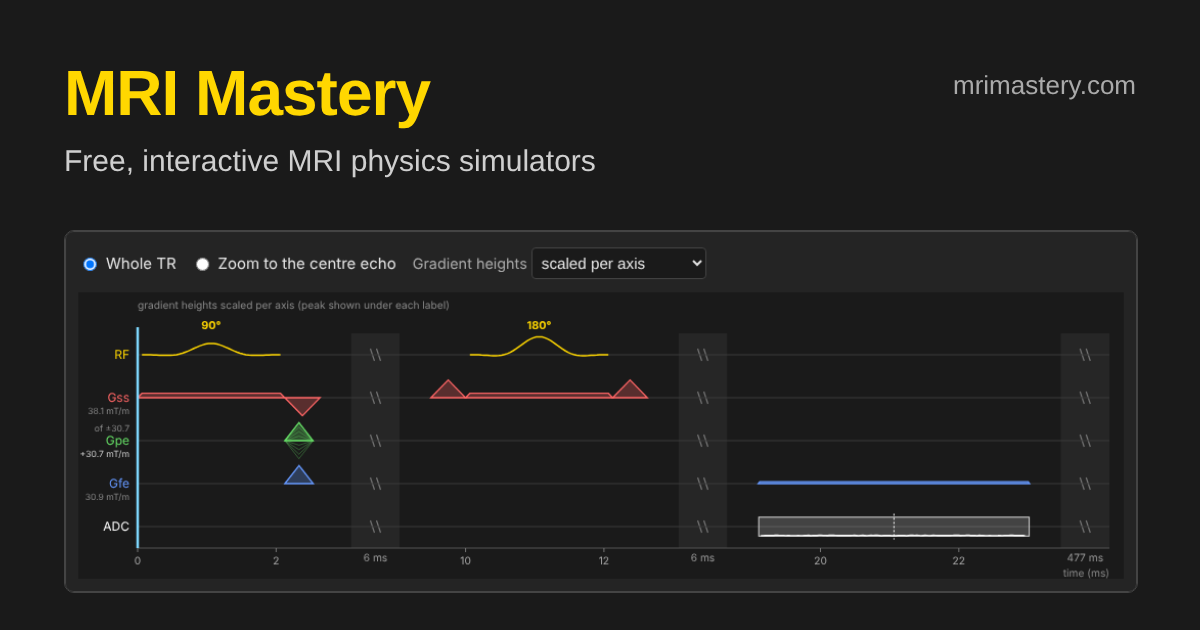
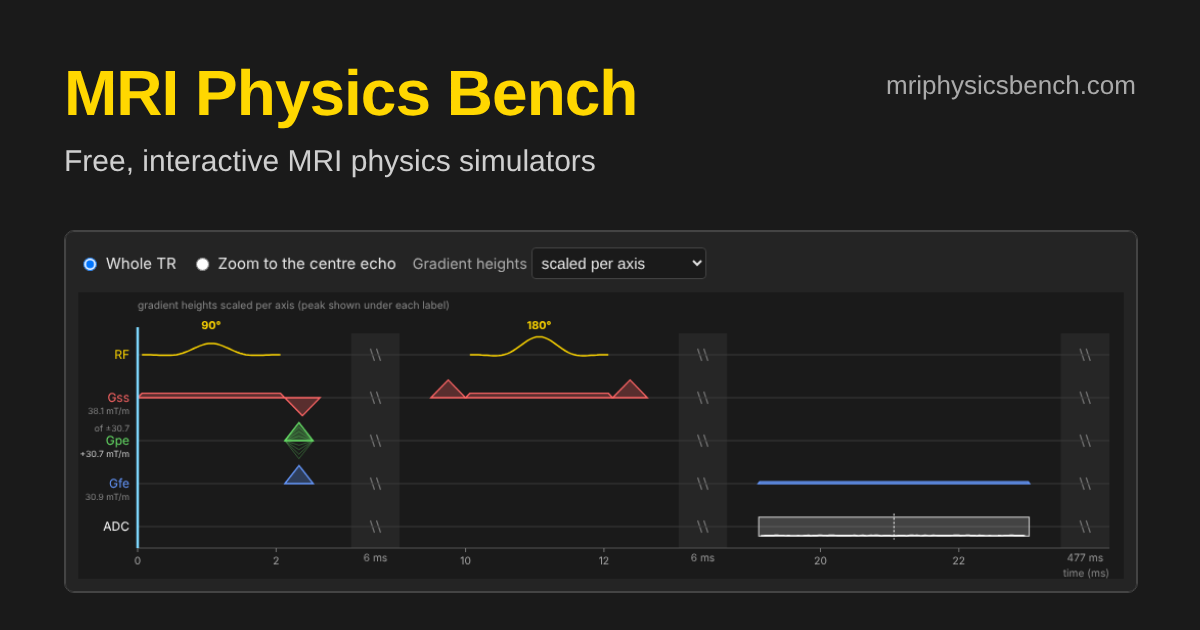
Rename MRI Mastery to MRI Physics Bench (mriphysicsbench.com)
Name, page titles, social tags, footer, social image, sitemap, robots and CNAME.
The old domain mrimastery.com will redirect here (set up in Cloudflare).

Claude-Session: https://claude.ai/code/session_01D25GT53PRjBohcvMYJHPzZ

Changed region(s): [[0.1542, 0.0905, 0.555, 0.2111], [0.74, 0.1206, 0.925, 0.1508]]

diff --git a/guide/index.html b/guide/index.html
@@ -3,16 +3,16 @@
 <head>
 <meta charset="utf-8">
 <meta name="viewport" content="width=device-width, initial-scale=1">
-<title>Quick Guide to the MRI Mastery Simulators | MRI Mastery</title>
-<meta name="description" content="How to use the free MRI Mastery physics simulators: what each one shows, what to try first, and tips for MRI students, technologists and residents.">
-<link rel="canonical" href="https://mrimastery.com/guide/">
+<title>Quick Guide to the MRI Physics Bench Simulators | MRI Physics Bench</title>
+<meta name="description" content="How to use the free MRI Physics Bench simulators: what each one shows, what to try first, and tips for MRI students, technologists and residents.">
+<link rel="canonical" href="https://mriphysicsbench.com/guide/">
 <meta name="author" content="David Bennett, PhD">
 <meta property="og:type" content="website">
-<meta property="og:site_name" content="MRI Mastery">
-<meta property="og:title" content="Quick Guide to the MRI Mastery Simulators | MRI Mastery">
-<meta property="og:description" content="How to use the free MRI Mastery physics simulators: what each one shows, what to try first, and tips for MRI students, technologists and residents.">
-<meta property="og:url" content="https://mrimastery.com/guide/">
-<meta property="og:image" content="https://mrimastery.com/shared/og-image.png">
+<meta property="og:site_name" content="MRI Physics Bench">
+<meta property="og:title" content="Quick Guide to the MRI Physics Bench Simulators | MRI Physics Bench">
+<meta property="og:description" content="How to use the free MRI Physics Bench simulators: what each one shows, what to try first, and tips for MRI students, technologists and residents.">
+<meta property="og:url" content="https://mriphysicsbench.com/guide/">
+<meta property="og:image" content="https://mriphysicsbench.com/shared/og-image.png">
 <meta name="twitter:card" content="summary_large_image">
 <style>
   :root { color-scheme: light; }
@@ -38,7 +38,7 @@
 </head>
 <body>
 <main>
-  <h1>MRI Mastery Simulators: quick guide</h1>
+  <h1>MRI Physics Bench: quick guide</h1>
   <p class="sub">Free, interactive MRI physics that runs in your browser. Nothing to install, no sign-in. Works on a laptop or desktop; a large screen helps.</p>
 
   <div class="note"><strong>Please read:</strong> this is an early release for learning and feedback. It has not been fully quality-checked. Some pages are marked "preview" or "in progress", and results may contain errors. It is a teaching model with simplified physics and a computer-generated head, not a clinical tool. Do not use it for scanner, protocol or safety decisions. Corrections are very welcome.</div>
@@ -96,7 +96,7 @@
   <h2>Feedback</h2>
   <p>Found an error, or something confusing? Please tell me in the group thread: what page, what settings, and what you expected. Thank you for testing.</p>
 </main>
-<footer class="site-foot">MRI Mastery is free and built by <a href="https://davidbennettphd.com" rel="author">David Bennett, PhD</a>, MRI physicist and physics educator. Visits are counted anonymously with Cloudflare Web Analytics; no cookies.</footer>
+<footer class="site-foot">MRI Physics Bench is free and built by <a href="https://davidbennettphd.com" rel="author">David Bennett, PhD</a>, MRI physicist and physics educator. Visits are counted anonymously with Cloudflare Web Analytics; no cookies.</footer>
 <!-- Cloudflare Web Analytics --><script type='module' src='https://static.cloudflareinsights.com/beacon.min.js' data-cf-beacon='{"token": "229a572cb7644dedbb333b9e00e8141d"}'></script><!-- End Cloudflare Web Analytics -->
 </body>
 </html>

diff --git a/phantom/index.html b/phantom/index.html
@@ -3,16 +3,16 @@
 <head>
 <meta charset="utf-8">
 <meta name="viewport" content="width=device-width, initial-scale=1">
-<title>MRI Head Phantom Viewer: T1, T2, PD and FLAIR | MRI Mastery</title>
-<meta name="description" content="A labeled 3D head phantom with T1, T2, proton density and FLAIR appearance, used by the MRI Mastery contrast simulator. Free and runs in your browser.">
-<link rel="canonical" href="https://mrimastery.com/phantom/">
+<title>MRI Head Phantom Viewer: T1, T2, PD and FLAIR | MRI Physics Bench</title>
+<meta name="description" content="A labeled 3D head phantom with T1, T2, proton density and FLAIR appearance, used by the MRI Physics Bench contrast simulator. Free and runs in your browser.">
+<link rel="canonical" href="https://mriphysicsbench.com/phantom/">
 <meta name="author" content="David Bennett, PhD">
 <meta property="og:type" content="website">
-<meta property="og:site_name" content="MRI Mastery">
-<meta property="og:title" content="MRI Head Phantom Viewer: T1, T2, PD and FLAIR | MRI Mastery">
-<meta property="og:description" content="A labeled 3D head phantom with T1, T2, proton density and FLAIR appearance, used by the MRI Mastery contrast simulator. Free and runs in your browser.">
-<meta property="og:url" content="https://mrimastery.com/phantom/">
-<meta property="og:image" content="https://mrimastery.com/shared/og-image.png">
+<meta property="og:site_name" content="MRI Physics Bench">
+<meta property="og:title" content="MRI Head Phantom Viewer: T1, T2, PD and FLAIR | MRI Physics Bench">
+<meta property="og:description" content="A labeled 3D head phantom with T1, T2, proton density and FLAIR appearance, used by the MRI Physics Bench contrast simulator. Free and runs in your browser.">
+<meta property="og:url" content="https://mriphysicsbench.com/phantom/">
+<meta property="og:image" content="https://mriphysicsbench.com/shared/og-image.png">
 <meta name="twitter:card" content="summary_large_image">
 <link rel="stylesheet" href="../shared/style.css">
 <style>
@@ -129,7 +129,7 @@
     fat planes. Tissue values are the contrast simulator's 3.0 T table (so WM and GM share T2 = 80 ms and T2-weighted contrast comes from PD and T2* is not used here), plus illustrative muscle, lesion and bone rows; the skull's cortical bone is
     treated as signal void. Weighted images are ideal spin-echo signal equations, not a full simulation.</p>
 </main>
-<footer class="site-foot">MRI Mastery is free and built by <a href="https://davidbennettphd.com" rel="author">David Bennett, PhD</a>, MRI physicist and physics educator. Visits are counted anonymously with Cloudflare Web Analytics; no cookies.</footer>
+<footer class="site-foot">MRI Physics Bench is free and built by <a href="https://davidbennettphd.com" rel="author">David Bennett, PhD</a>, MRI physicist and physics educator. Visits are counted anonymously with Cloudflare Web Analytics; no cookies.</footer>
 <script type="module" src="ui.js"></script>
 <!-- Cloudflare Web Analytics --><script type='module' src='https://static.cloudflareinsights.com/beacon.min.js' data-cf-beacon='{"token": "229a572cb7644dedbb333b9e00e8141d"}'></script><!-- End Cloudflare Web Analytics -->
 </body>

diff --git a/index.html b/index.html
@@ -3,16 +3,16 @@
 <head>
 <meta charset="utf-8">
 <meta name="viewport" content="width=device-width, initial-scale=1">
-<title>MRI Mastery: Free Interactive MRI Physics Simulators</title>
+<title>MRI Physics Bench: Free Interactive MRI Physics Simulators</title>
 <meta name="description" content="Free, browser-based MRI physics simulators for students, technologists and residents: Bloch equations, k-space, contrast, signal processing, RF coils and coil tuning. No sign-in.">
-<link rel="canonical" href="https://mrimastery.com/">
+<link rel="canonical" href="https://mriphysicsbench.com/">
 <meta name="author" content="David Bennett, PhD">
 <meta property="og:type" content="website">
-<meta property="og:site_name" content="MRI Mastery">
-<meta property="og:title" content="MRI Mastery: Free Interactive MRI Physics Simulators">
+<meta property="og:site_name" content="MRI Physics Bench">
+<meta property="og:title" content="MRI Physics Bench: Free Interactive MRI Physics Simulators">
 <meta property="og:description" content="Free, browser-based MRI physics simulators for students, technologists and residents: Bloch equations, k-space, contrast, signal processing, RF coils and coil tuning. No sign-in.">
-<meta property="og:url" content="https://mrimastery.com/">
-<meta property="og:image" content="https://mrimastery.com/shared/og-image.png">
+<meta property="og:url" content="https://mriphysicsbench.com/">
+<meta property="og:image" content="https://mriphysicsbench.com/shared/og-image.png">
 <meta name="twitter:card" content="summary_large_image">
 <link rel="stylesheet" href="shared/style.css">
 <style>
@@ -26,7 +26,7 @@
 </head>
 <body>
 <main>
-  <h1>MRI Mastery Simulators</h1>
+  <h1>MRI Physics Bench</h1>
   <p class="sub">Free, interactive MRI physics. Everything runs in your browser.</p>
   <p class="panel" style="margin-top:14px;font-size:.9rem;color:var(--muted)"><strong style="color:var(--text)">Early release.</strong> These simulators have not been fully quality-checked and are for learning only, not clinical use. New here? Read the <a href="guide/">quick guide</a> (<a href="guide/MRI-Mastery-Quick-Guide.pdf">PDF</a>).</p>
   <div class="cards">
@@ -60,7 +60,7 @@
     </a>
   </div>
 </main>
-<footer class="site-foot">MRI Mastery is free and built by <a href="https://davidbennettphd.com" rel="author">David Bennett, PhD</a>, MRI physicist and physics educator. Visits are counted anonymously with Cloudflare Web Analytics; no cookies.</footer>
+<footer class="site-foot">MRI Physics Bench is free and built by <a href="https://davidbennettphd.com" rel="author">David Bennett, PhD</a>, MRI physicist and physics educator. Visits are counted anonymously with Cloudflare Web Analytics; no cookies.</footer>
 <!-- Cloudflare Web Analytics --><script type='module' src='https://static.cloudflareinsights.com/beacon.min.js' data-cf-beacon='{"token": "229a572cb7644dedbb333b9e00e8141d"}'></script><!-- End Cloudflare Web Analytics -->
 </body>
 </html>

diff --git a/signal/index.html b/signal/index.html
@@ -3,16 +3,16 @@
 <head>
 <meta charset="utf-8">
 <meta name="viewport" content="width=device-width, initial-scale=1">
-<title>Signal Processing Simulator: Fourier, Sampling, Aliasing and Slice Profiles | MRI Mastery</title>
+<title>Signal Processing Simulator: Fourier, Sampling, Aliasing and Slice Profiles | MRI Physics Bench</title>
 <meta name="description" content="Interactive Fourier transforms, sampling and aliasing, and how RF pulse shape sets the MRI slice profile. Free MRI physics simulator.">
-<link rel="canonical" href="https://mrimastery.com/signal/">
+<link rel="canonical" href="https://mriphysicsbench.com/signal/">
 <meta name="author" content="David Bennett, PhD">
 <meta property="og:type" content="website">
-<meta property="og:site_name" content="MRI Mastery">
-<meta property="og:title" content="Signal Processing Simulator: Fourier, Sampling, Aliasing and Slice Profiles | MRI Mastery">
+<meta property="og:site_name" content="MRI Physics Bench">
+<meta property="og:title" content="Signal Processing Simulator: Fourier, Sampling, Aliasing and Slice Profiles | MRI Physics Bench">
 <meta property="og:description" content="Interactive Fourier transforms, sampling and aliasing, and how RF pulse shape sets the MRI slice profile. Free MRI physics simulator.">
-<meta property="og:url" content="https://mrimastery.com/signal/">
-<meta property="og:image" content="https://mrimastery.com/shared/og-image.png">
+<meta property="og:url" content="https://mriphysicsbench.com/signal/">
+<meta property="og:image" content="https://mriphysicsbench.com/shared/og-image.png">
 <meta name="twitter:card" content="summary_large_image">
 <link rel="stylesheet" href="../shared/style.css">
 <script src="../shared/text-size.js"></script>
@@ -128,7 +128,7 @@
   <p class="caption">Slice thickness is determined by RF pulse bandwidth and slice select gradient strength. Higher
     time-bandwidth product improves slice profile quality but requires longer pulse duration, increasing minimum TE.</p>
 </main>
-<footer class="site-foot">MRI Mastery is free and built by <a href="https://davidbennettphd.com" rel="author">David Bennett, PhD</a>, MRI physicist and physics educator. Visits are counted anonymously with Cloudflare Web Analytics; no cookies.</footer>
+<footer class="site-foot">MRI Physics Bench is free and built by <a href="https://davidbennettphd.com" rel="author">David Bennett, PhD</a>, MRI physicist and physics educator. Visits are counted anonymously with Cloudflare Web Analytics; no cookies.</footer>
 <script src="https://cdn.jsdelivr.net/npm/plotly.js-dist-min@2.35.2/plotly.min.js"></script>
 <script type="module" src="ui.js"></script>
 <!-- Cloudflare Web Analytics --><script type='module' src='https://static.cloudflareinsights.com/beacon.min.js' data-cf-beacon='{"token": "229a572cb7644dedbb333b9e00e8141d"}'></script><!-- End Cloudflare Web Analytics -->

diff --git a/coil/index.html b/coil/index.html
@@ -3,16 +3,16 @@
 <head>
 <meta charset="utf-8">
 <meta name="viewport" content="width=device-width, initial-scale=1">
-<title>Coil Fields and RF Excitation Simulator: Biot-Savart and B1+ Maps | MRI Mastery</title>
+<title>Coil Fields and RF Excitation Simulator: Biot-Savart and B1+ Maps | MRI Physics Bench</title>
 <meta name="description" content="Explore Biot-Savart magnetic fields of loops and Helmholtz pairs, B1+ and flip-angle maps, and how RF coil geometry shapes MRI excitation. Free and interactive.">
-<link rel="canonical" href="https://mrimastery.com/coil/">
+<link rel="canonical" href="https://mriphysicsbench.com/coil/">
 <meta name="author" content="David Bennett, PhD">
 <meta property="og:type" content="website">
-<meta property="og:site_name" content="MRI Mastery">
-<meta property="og:title" content="Coil Fields and RF Excitation Simulator: Biot-Savart and B1+ Maps | MRI Mastery">
+<meta property="og:site_name" content="MRI Physics Bench">
+<meta property="og:title" content="Coil Fields and RF Excitation Simulator: Biot-Savart and B1+ Maps | MRI Physics Bench">
 <meta property="og:description" content="Explore Biot-Savart magnetic fields of loops and Helmholtz pairs, B1+ and flip-angle maps, and how RF coil geometry shapes MRI excitation. Free and interactive.">
-<meta property="og:url" content="https://mrimastery.com/coil/">
-<meta property="og:image" content="https://mrimastery.com/shared/og-image.png">
+<meta property="og:url" content="https://mriphysicsbench.com/coil/">
+<meta property="og:image" content="https://mriphysicsbench.com/shared/og-image.png">
 <meta name="twitter:card" content="summary_large_image">
 <link rel="stylesheet" href="../shared/style.css">
 <script src="../shared/text-size.js"></script>
@@ -206,7 +206,7 @@
     </section>
   </div>
 </main>
-<footer class="site-foot">MRI Mastery is free and built by <a href="https://davidbennettphd.com" rel="author">David Bennett, PhD</a>, MRI physicist and physics educator. Visits are counted anonymously with Cloudflare Web Analytics; no cookies.</footer>
+<footer class="site-foot">MRI Physics Bench is free and built by <a href="https://davidbennettphd.com" rel="author">David Bennett, PhD</a>, MRI physicist and physics educator. Visits are counted anonymously with Cloudflare Web Analytics; no cookies.</footer>
 <script src="https://cdn.jsdelivr.net/npm/plotly.js-dist-min@2.35.2/plotly.min.js"></script>
 <script type="module" src="ui.js"></script>
 <!-- Cloudflare Web Analytics --><script type='module' src='https://static.cloudflareinsights.com/beacon.min.js' data-cf-beacon='{"token": "229a572cb7644dedbb333b9e00e8141d"}'></script><!-- End Cloudflare Web Analytics -->

diff --git a/bloch/index.html b/bloch/index.html
@@ -3,16 +3,16 @@
 <head>
 <meta charset="utf-8">
 <meta name="viewport" content="width=device-width, initial-scale=1">
-<title>Bloch Simulator: Interactive 3D MRI Magnetization | MRI Mastery</title>
+<title>Bloch Simulator: Interactive 3D MRI Magnetization | MRI Physics Bench</title>
 <meta name="description" content="Watch the magnetization vector respond to RF pulses, off-resonance, T1 and T2 relaxation in 3D, in the rotating or lab frame. Spin echo and inversion recovery. Free, runs in your browser.">
-<link rel="canonical" href="https://mrimastery.com/bloch/">
+<link rel="canonical" href="https://mriphysicsbench.com/bloch/">
 <meta name="author" content="David Bennett, PhD">
 <meta property="og:type" content="website">
-<meta property="og:site_name" content="MRI Mastery">
-<meta property="og:title" content="Bloch Simulator: Interactive 3D MRI Magnetization | MRI Mastery">
+<meta property="og:site_name" content="MRI Physics Bench">
+<meta property="og:title" content="Bloch Simulator: Interactive 3D MRI Magnetization | MRI Physics Bench">
 <meta property="og:description" content="Watch the magnetization vector respond to RF pulses, off-resonance, T1 and T2 relaxation in 3D, in the rotating or lab frame. Spin echo and inversion recovery. Free, runs in your browser.">
-<meta property="og:url" content="https://mrimastery.com/bloch/">
-<meta property="og:image" content="https://mrimastery.com/shared/og-image.png">
+<meta property="og:url" content="https://mriphysicsbench.com/bloch/">
+<meta property="og:image" content="https://mriphysicsbench.com/shared/og-image.png">
 <meta name="twitter:card" content="summary_large_image">
 <style>
   html { font-size: calc(16px * var(--ts, 1)); }
@@ -135,7 +135,7 @@
     </section>
   </div>
 </main>
-<footer class="site-foot">MRI Mastery is free and built by <a href="https://davidbennettphd.com" rel="author">David Bennett, PhD</a>, MRI physicist and physics educator. Visits are counted anonymously with Cloudflare Web Analytics; no cookies.</footer>
+<footer class="site-foot">MRI Physics Bench is free and built by <a href="https://davidbennettphd.com" rel="author">David Bennett, PhD</a>, MRI physicist and physics educator. Visits are counted anonymously with Cloudflare Web Analytics; no cookies.</footer>
 <script src="https://cdn.jsdelivr.net/npm/plotly.js-dist-min@2.35.2/plotly.min.js"></script>
 <script type="module" src="ui.js"></script>
 <!-- Cloudflare Web Analytics --><script type='module' src='https://static.cloudflareinsights.com/beacon.min.js' data-cf-beacon='{"token": "229a572cb7644dedbb333b9e00e8141d"}'></script><!-- End Cloudflare Web Analytics -->

diff --git a/tuning/index.html b/tuning/index.html
@@ -3,16 +3,16 @@
 <head>
 <meta charset="utf-8">
 <meta name="viewport" content="width=device-width, initial-scale=1">
-<title>MRI Coil Tuning and Matching Simulator: S11 and Smith Chart | MRI Mastery</title>
+<title>MRI Coil Tuning and Matching Simulator: S11 and Smith Chart | MRI Physics Bench</title>
 <meta name="description" content="Tune and match an MRI loop coil to the Larmor frequency on a live S11 plot and Smith chart, then see how a patient detunes it and lowers its Q. Free, interactive.">
-<link rel="canonical" href="https://mrimastery.com/tuning/">
+<link rel="canonical" href="https://mriphysicsbench.com/tuning/">
 <meta name="author" content="David Bennett, PhD">
 <meta property="og:type" content="website">
-<meta property="og:site_name" content="MRI Mastery">
-<meta property="og:title" content="MRI Coil Tuning and Matching Simulator: S11 and Smith Chart | MRI Mastery">
+<meta property="og:site_name" content="MRI Physics Bench">
+<meta property="og:title" content="MRI Coil Tuning and Matching Simulator: S11 and Smith Chart | MRI Physics Bench">
 <meta property="og:description" content="Tune and match an MRI loop coil to the Larmor frequency on a live S11 plot and Smith chart, then see how a patient detunes it and lowers its Q. Free, interactive.">
-<meta property="og:url" content="https://mrimastery.com/tuning/">
-<meta property="og:image" content="https://mrimastery.com/shared/og-image.png">
+<meta property="og:url" content="https://mriphysicsbench.com/tuning/">
+<meta property="og:image" content="https://mriphysicsbench.com/shared/og-image.png">
 <meta name="twitter:card" content="summary_large_image">
 <link rel="stylesheet" href="../shared/style.css">
 <style>
@@ -80,7 +80,7 @@
     </section>
   </div>
 </main>
-<footer class="site-foot">MRI Mastery is free and built by <a href="https://davidbennettphd.com" rel="author">David Bennett, PhD</a>, MRI physicist and physics educator. Visits are counted anonymously with Cloudflare Web Analytics; no cookies.</footer>
+<footer class="site-foot">MRI Physics Bench is free and built by <a href="https://davidbennettphd.com" rel="author">David Bennett, PhD</a>, MRI physicist and physics educator. Visits are counted anonymously with Cloudflare Web Analytics; no cookies.</footer>
 <script src="https://cdn.jsdelivr.net/npm/plotly.js-dist-min@2.35.2/plotly.min.js"></script>
 <script type="module" src="ui.js"></script>
 <!-- Cloudflare Web Analytics --><script type='module' src='https://static.cloudflareinsights.com/beacon.min.js' data-cf-beacon='{"token": "229a572cb7644dedbb333b9e00e8141d"}'></script><!-- End Cloudflare Web Analytics -->

diff --git a/kspace/index.html b/kspace/index.html
@@ -3,16 +3,16 @@
 <head>
 <meta charset="utf-8">
 <meta name="viewport" content="width=device-width, initial-scale=1">
-<title>K-space Explorer: Interactive MRI K-space and Pulse Sequence Simulator | MRI Mastery</title>
+<title>K-space Explorer: Interactive MRI K-space and Pulse Sequence Simulator | MRI Physics Bench</title>
 <meta name="description" content="Play a to-scale pulse sequence and watch each gradient move through k-space while the MRI image builds up. Free interactive k-space simulator for students and technologists.">
-<link rel="canonical" href="https://mrimastery.com/kspace/">
+<link rel="canonical" href="https://mriphysicsbench.com/kspace/">
 <meta name="author" content="David Bennett, PhD">
 <meta property="og:type" content="website">
-<meta property="og:site_name" content="MRI Mastery">
-<meta property="og:title" content="K-space Explorer: Interactive MRI K-space and Pulse Sequence Simulator | MRI Mastery">
+<meta property="og:site_name" content="MRI Physics Bench">
+<meta property="og:title" content="K-space Explorer: Interactive MRI K-space and Pulse Sequence Simulator | MRI Physics Bench">
 <meta property="og:description" content="Play a to-scale pulse sequence and watch each gradient move through k-space while the MRI image builds up. Free interactive k-space simulator for students and technologists.">
-<meta property="og:url" content="https://mrimastery.com/kspace/">
-<meta property="og:image" content="https://mrimastery.com/shared/og-image.png">
+<meta property="og:url" content="https://mriphysicsbench.com/kspace/">
+<meta property="og:image" content="https://mriphysicsbench.com/shared/og-image.png">
 <meta name="twitter:card" content="summary_large_image">
 <link rel="stylesheet" href="../shared/style.css">
 <style>
@@ -166,7 +166,7 @@
     </aside>
   </div>
 </main>
-<footer class="site-foot">MRI Mastery is free and built by <a href="https://davidbennettphd.com" rel="author">David Bennett, PhD</a>, MRI physicist and physics educator. Visits are counted anonymously with Cloudflare Web Analytics; no cookies.</footer>
+<footer class="site-foot">MRI Physics Bench is free and built by <a href="https://davidbennettphd.com" rel="author">David Bennett, PhD</a>, MRI physicist and physics educator. Visits are counted anonymously with Cloudflare Web Analytics; no cookies.</footer>
 <script type="module" src="ui.js"></script>
 <!-- Cloudflare Web Analytics --><script type='module' src='https://static.cloudflareinsights.com/beacon.min.js' data-cf-beacon='{"token": "229a572cb7644dedbb333b9e00e8141d"}'></script><!-- End Cloudflare Web Analytics -->
 </body>

diff --git a/contrast/index.html b/contrast/index.html
@@ -3,16 +3,16 @@
 <head>
 <meta charset="utf-8">
 <meta name="viewport" content="width=device-width, initial-scale=1">
-<title>MRI Contrast Simulator: TR, TE, SNR, Resolution and Scan Time | MRI Mastery</title>
+<title>MRI Contrast Simulator: TR, TE, SNR, Resolution and Scan Time | MRI Physics Bench</title>
 <meta name="description" content="Pick a pulse sequence and field strength, then watch T1, T2 and PD contrast, SNR, resolution and scan time trade off, with phantom images and pulse-sequence diagrams.">
-<link rel="canonical" href="https://mrimastery.com/contrast/">
+<link rel="canonical" href="https://mriphysicsbench.com/contrast/">
 <meta name="author" content="David Bennett, PhD">
 <meta property="og:type" content="website">
-<meta property="og:site_name" content="MRI Mastery">
-<meta property="og:title" content="MRI Contrast Simulator: TR, TE, SNR, Resolution and Scan Time | MRI Mastery">
+<meta property="og:site_name" content="MRI Physics Bench">
+<meta property="og:title" content="MRI Contrast Simulator: TR, TE, SNR, Resolution and Scan Time | MRI Physics Bench">
 <meta property="og:description" content="Pick a pulse sequence and field strength, then watch T1, T2 and PD contrast, SNR, resolution and scan time trade off, with phantom images and pulse-sequence diagrams.">
-<meta property="og:url" content="https://mrimastery.com/contrast/">
-<meta property="og:image" content="https://mrimastery.com/shared/og-image.png">
+<meta property="og:url" content="https://mriphysicsbench.com/contrast/">
+<meta property="og:image" content="https://mriphysicsbench.com/shared/og-image.png">
 <meta name="twitter:card" content="summary_large_image">
 <link rel="stylesheet" href="../shared/style.css">
 <link rel="stylesheet" href="contrast.css">
@@ -155,7 +155,7 @@
     </aside>
   </div>
 </main>
-<footer class="site-foot">MRI Mastery is free and built by <a href="https://davidbennettphd.com" rel="author">David Bennett, PhD</a>, MRI physicist and physics educator. Visits are counted anonymously with Cloudflare Web Analytics; no cookies.</footer>
+<footer class="site-foot">MRI Physics Bench is free and built by <a href="https://davidbennettphd.com" rel="author">David Bennett, PhD</a>, MRI physicist and physics educator. Visits are counted anonymously with Cloudflare Web Analytics; no cookies.</footer>
 <script type="module" src="ui.js"></script>
 <!-- Cloudflare Web Analytics --><script type='module' src='https://static.cloudflareinsights.com/beacon.min.js' data-cf-beacon='{"token": "229a572cb7644dedbb333b9e00e8141d"}'></script><!-- End Cloudflare Web Analytics -->
 </body>

diff --git a/CLAUDE.md b/CLAUDE.md
@@ -1,7 +1,7 @@
-# MRI Mastery simulators (mrimastery-sim)
+# MRI Physics Bench simulators (mrimastery-sim)
 
 Free, browser-based MRI physics simulators: static HTML and ES-module JavaScript, no build step, no framework.
-Plotly 2.35.2 (pinned, from jsDelivr) draws the plots. Live at https://mrimastery.com (GitHub Pages, domain in
+Plotly 2.35.2 (pinned, from jsDelivr) draws the plots. Live at https://mriphysicsbench.com (renamed from MRI Mastery / mrimastery.com on 2026-11-18; the old domain redirects here) (GitHub Pages, domain in
 `CNAME`), published from `main`. This repo replaces the old Streamlit app (`daveb08/mri-simulator`, archived on GitHub
 2026-11-15; its code, including the AI "Explain contrast" feature, is in that repo's history). `README.md` has the page
 table and the BrainWeb details; `docs/roadmap.md` is the agreed order of future work. Nothing on the roadmap starts without

diff --git a/.claude/skills/qc/SKILL.md b/.claude/skills/qc/SKILL.md
@@ -1,6 +1,6 @@
 ---
 name: qc
-description: Quality check for the MRI Mastery simulators. Runs every unit test and the headless-Chrome page smoke test (tools/smoke.mjs), compares screenshots against the saved baseline, and reports pass/fail. Use when the user types /qc, /qc full or /qc baseline, or asks to check the simulators before a commit or push.
+description: Quality check for the MRI Physics Bench simulators. Runs every unit test and the headless-Chrome page smoke test (tools/smoke.mjs), compares screenshots against the saved baseline, and reports pass/fail. Use when the user types /qc, /qc full or /qc baseline, or asks to check the simulators before a commit or push.
 ---
 
 # /qc: quality check for the simulators

diff --git a/README.md b/README.md
@@ -1,4 +1,4 @@
-# MRI Mastery simulators
+# MRI Physics Bench simulators
 
 Free, browser-based MRI physics simulators. Static HTML/JS; no build step, no framework.
 Plotly (pinned, from jsDelivr) draws the plots.
